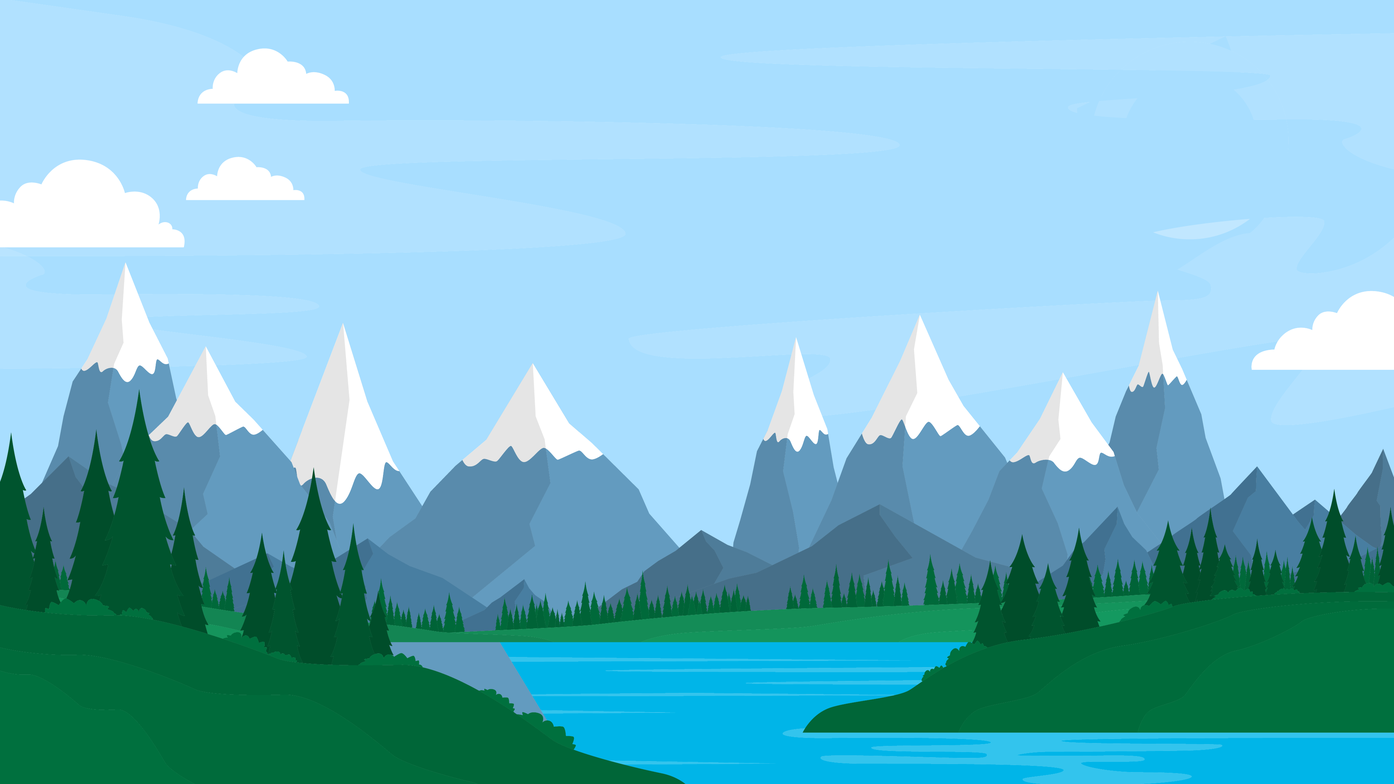
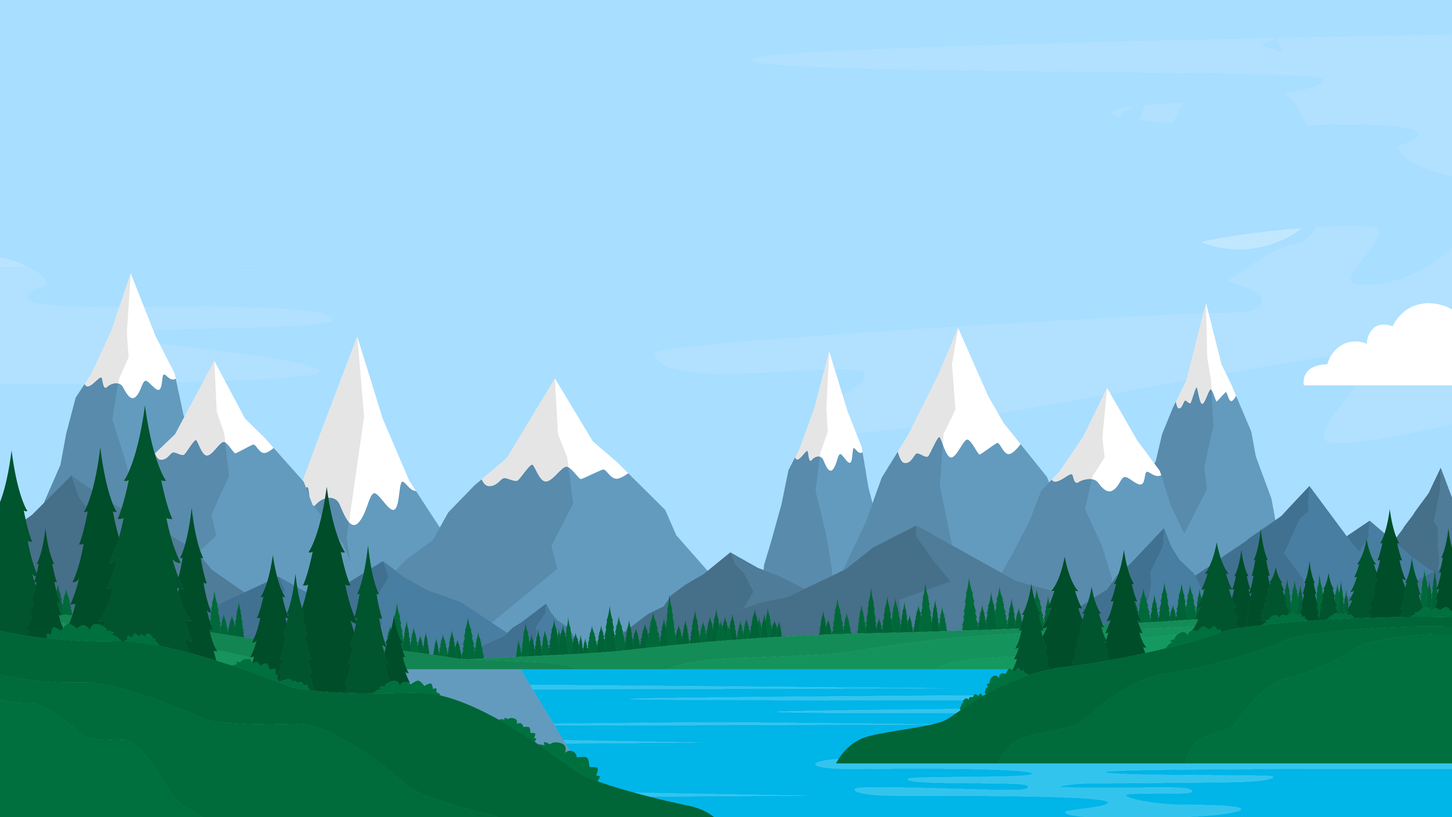
more work on splashscreen

Changed region(s): [[0.0, 0.1861, 0.2188, 0.3412], [0.125, 0.062, 0.25, 0.1551]]

diff --git a/src/assets/images.ts b/src/assets/images.ts
@@ -1,7 +1,6 @@
 import { pickRandomItems } from "../utils/utils";
 
 // printf '"%s",' * | sed 's/,$/\n/'
-// eslint-disable-next-line
-const kommunevaapen = [ "0001.png", "0101.png", "0104.png", "0105.png", "0106.png", "0111.png", "0118.png", "0119.png", "0121.png", "0122.png", "0123.png", "0124.png", "0125.png", "0127.png", "0128.png", "0135.png", "0136.png", "0137.png", "0138.png", "0211.png", "0213.png", "0214.png", "0215.png", "0216.png", "0217.png", "0219.png", "0220.png", "0221.png", "0226.png", "0227.png", "0228.png", "0229.png", "0230.png", "0231.png", "0233.png", "0234.png", "0235.png", "0236.png", "0237.png", "0238.png", "0239.png", "0301.png", "0402.png", "0403.png", "0412.png", "0415.png", "0417.png", "0418.png", "0419.png", "0420.png", "0423.png", "0425.png", "0426.png", "0427.png", "0428.png", "0429.png", "0430.png", "0432.png", "0434.png", "0436.png", "0437.png", "0438.png", "0439.png", "0441.png", "0501.png", "0502.png", "0511.png", "0512.png", "0513.png", "0514.png", "0515.png", "0516.png", "0517.png", "0519.png", "0520.png", "0521.png", "0522.png", "0528.png", "0529.png", "0532.png", "0533.png", "0534.png", "0536.png", "0538.png", "0540.png", "0541.png", "0542.png", "0543.png", "0544.png", "0545.png", "0602.png", "0604.png", "0605.png", "0612.png", "0615.png", "0616.png", "0617.png", "0618.png", "0619.png", "0620.png", "0621.png", "0622.png", "0623.png", "0624.png", "0625.png", "0626.png", "0627.png", "0628.png", "0631.png", "0632.png", "0633.png", "0701.png", "0704.png", "0710.png", "0711.png", "0712.png", "0713.png", "0715.png", "0716.png", "0729.png", "0805.png", "0806.png", "0807.png", "0811.png", "0814.png", "0815.png", "0817.png", "0819.png", "0821.png", "0822.png", "0826.png", "0827.png", "0828.png", "0829.png", "0830.png", "0831.png", "0833.png", "0834.png", "0901.png", "0904.png", "0906.png", "0911.png", "0912.png", "0914.png", "0919.png", "0926.png", "0928.png", "0929.png", "0935.png", "0937.png", "0938.png", "0940.png", "0941.png", "1001.png", "1002.png", "1003.png", "1004.png", "1014.png", "1017.png", "1018.png", "1021.png", "1026.png", "1027.png", "1029.png", "1032.png", "1034.png", "1037.png", "1046.png", "1100.png", "1101.png", "1102.png", "1103.png", "1106.png", "1108.png", "1111.png", "1112.png", "1114.png", "1119.png", "1120.png", "1121.png", "1122.png", "1124.png", "1127.png", "1129.png", "1130.png", "1133.png", "1134.png", "1135.png", "1141.png", "1142.png", "1144.png", "1145.png", "1146.png", "1149.png", "1151.png", "1160.png", "1201.png", "1211.png", "1216.png", "1219.png", "1221.png", "1222.png", "1223.png", "1224.png", "1227.png", "1228.png", "1231.png", "1232.png", "1233.png", "1234.png", "1235.png", "1238.png", "1241.png", "1242.png", "1243.png", "1244.png", "1245.png", "1246.png", "1247.png", "1251.png", "1252.png", "1253.png", "1256.png", "1259.png", "1260.png", "1263.png", "1264.png", "1265.png", "1266.png", "1401.png", "1411.png", "1412.png", "1413.png", "1416.png", "1417.png", "1418.png", "1419.png", "1420.png", "1421.png", "1422.png", "1424.png", "1426.png", "1428.png", "1429.png", "1430.png", "1431.png", "1432.png", "1433.png", "1438.png", "1439.png", "1441.png", "1443.png", "1444.png", "1445.png", "1449.png", "1500.png", "1502.png", "1504.png", "1505.png", "1506.png", "1507.png", "1508.png", "1511.png", "1514.png", "1515.png", "1516.png", "1517.png", "1519.png", "1520.png", "1523.png", "1524.png", "1525.png", "1526.png", "1528.png", "1529.png", "1531.png", "1532.png", "1534.png", "1535.png", "1539.png", "1543.png", "1545.png", "1546.png", "1547.png", "1548.png", "1551.png", "1554.png", "1557.png", "1560.png", "1563.png", "1566.png", "1571.png", "1573.png", "1576.png", "1577.png", "1578.png", "1579.png", "1580.png", "1800.png", "1804.png", "1805.png", "1806.png", "1811.png", "1812.png", "1813.png", "1815.png", "1816.png", "1818.png", "1820.png", "1822.png", "1824.png", "1825.png", "1826.png", "1827.png", "1828.png", "1832.png", "1833.png", "1834.png", "1835.png", "1836.png", "1837.png", "1838.png", "1839.png", "1840.png", "1841.png", "1845.png", "1848.png", "1849.png", "1850.png", "1851.png", "1852.png", "1853.png", "1854.png", "1856.png", "1857.png", "1859.png", "1860.png", "1865.png", "1866.png", "1867.png", "1868.png", "1870.png", "1871.png", "1874.png", "1875.png", "1902.png", "1903.png", "1911.png", "1913.png", "1917.png", "1919.png", "1920.png", "1922.png", "1923.png", "1924.png", "1925.png", "1926.png", "1927.png", "1928.png", "1929.png", "1931.png", "1933.png", "1936.png", "1938.png", "1939.png", "1940.png", "1941.png", "1942.png", "1943.png", "2002.png", "2003.png", "2004.png", "2011.png", "2012.png", "2014.png", "2015.png", "2017.png", "2018.png", "2019.png", "2020.png", "2021.png", "2022.png", "2023.png", "2024.png", "2025.png", "2027.png", "2028.png", "2030.png", "2100.png", "3000.png", "3001.png", "3002.png", "3003.png", "3004.png", "3005.png", "3006.png", "3007.png", "3012.png", "3013.png", "3014.png", "3015.png", "3016.png", "3017.png", "3018.png", "3019.png", "3020.png", "3021.png", "3022.png", "3023.png", "3024.png", "3025.png", "3026.png", "3027.png", "3028.png", "3029.png", "3030.png", "3031.png", "3032.png", "3033.png", "3034.png", "3035.png", "3036.png", "3037.png", "3038.png", "3039.png", "3040.png", "3041.png", "3042.png", "3043.png", "3044.png", "3045.png", "3046.png", "3047.png", "3048.png", "3049.png", "3050.png", "3051.png", "3052.png", "3053.png", "3054.png", "3099.png", "3100.png", "3101.png", "3103.png", "3105.png", "3107.png", "3112.png", "3114.png", "3116.png", "3118.png", "3120.png", "3122.png", "3124.png", "3200.png", "3201.png", "3203.png", "3205.png", "3207.png", "3209.png", "3212.png", "3214.png", "3216.png", "3218.png", "3220.png", "3222.png", "3224.png", "3226.png", "3228.png", "3230.png", "3232.png", "3234.png", "3236.png", "3238.png", "3240.png", "3242.png", "3300.png", "3301.png", "3303.png", "3305.png", "3310.png", "3312.png", "3314.png", "3316.png", "3318.png", "3320.png", "3322.png", "3324.png", "3326.png", "3328.png", "3330.png", "3332.png", "3334.png", "3336.png", "3338.png", "3400.png", "3401.png", "3403.png", "3405.png", "3407.png", "3411.png", "3412.png", "3413.png", "3414.png", "3415.png", "3416.png", "3417.png", "3418.png", "3419.png", "3420.png", "3421.png", "3422.png", "3423.png", "3424.png", "3425.png", "3426.png", "3427.png", "3428.png", "3429.png", "3430.png", "3431.png", "3432.png", "3433.png", "3434.png", "3435.png", "3436.png", "3437.png", "3438.png", "3439.png", "3440.png", "3441.png", "3442.png", "3443.png", "3446.png", "3447.png", "3448.png", "3449.png", "3450.png", "3451.png", "3452.png", "3453.png", "3454.png", "3800.png", "3801.png", "3802.png", "3803.png", "3804.png", "3805.png", "3806.png", "3807.png", "3808.png", "3811.png", "3812.png", "3813.png", "3814.png", "3815.png", "3816.png", "3817.png", "3818.png", "3819.png", "3820.png", "3821.png", "3822.png", "3823.png", "3824.png", "3825.png", "3900.png", "3901.png", "3903.png", "3905.png", "3907.png", "3909.png", "3911.png", "4000.png", "4001.png", "4003.png", "4005.png", "4010.png", "4012.png", "4014.png", "4016.png", "4018.png", "4020.png", "4022.png", "4024.png", "4026.png", "4028.png", "4030.png", "4032.png", "4034.png", "4036.png", "4200.png", "4201.png", "4202.png", "4203.png", "4204.png", "4205.png", "4206.png", "4207.png", "4211.png", "4212.png", "4213.png", "4214.png", "4215.png", "4216.png", "4217.png", "4218.png", "4219.png", "4220.png", "4221.png", "4222.png", "4223.png", "4224.png", "4225.png", "4226.png", "4227.png", "4228.png", "4600.png", "4601.png", "4602.png", "4611.png", "4612.png", "4613.png", "4614.png", "4615.png", "4616.png", "4617.png", "4618.png", "4619.png", "4620.png", "4621.png", "4622.png", "4623.png", "4624.png", "4625.png", "4626.png", "4627.png", "4628.png", "4629.png", "4630.png", "4631.png", "4632.png", "4633.png", "4634.png", "4635.png", "4636.png", "4637.png", "4638.png", "4639.png", "4640.png", "4641.png", "4642.png", "4643.png", "4644.png", "4645.png", "4646.png", "4647.png", "4648.png", "4649.png", "4650.png", "4651.png", "4699.png", "5000.png", "5001.png", "5004.png", "5005.png", "5006.png", "5007.png", "5011.png", "5012.png", "5013.png", "5014.png", "5015.png", "5016.png", "5017.png", "5018.png", "5019.png", "5020.png", "5021.png", "5022.png", "5023.png", "5024.png", "5025.png", "5026.png", "5027.png", "5028.png", "5029.png", "5030.png", "5031.png", "5032.png", "5033.png", "5034.png", "5035.png", "5036.png", "5037.png", "5038.png", "5039.png", "5040.png", "5041.png", "5042.png", "5043.png", "5044.png", "5045.png", "5046.png", "5047.png", "5048.png", "5049.png", "5050.png", "5051.png", "5052.png", "5053.png", "5054.png", "5055.png", "5056.png", "5057.png", "5058.png", "5059.png", "5060.png", "5061.png", "5400.png", "5401.png", "5402.png", "5403.png", "5404.png", "5405.png", "5406.png", "5411.png", "5412.png", "5413.png", "5414.png", "5415.png", "5416.png", "5417.png", "5418.png", "5419.png", "5420.png", "5421.png", "5422.png", "5423.png", "5424.png", "5425.png", "5426.png", "5427.png", "5428.png", "5429.png", "5430.png", "5432.png", "5433.png", "5434.png", "5435.png", "5436.png", "5437.png", "5438.png", "5439.png", "5440.png", "5441.png", "5442.png", "5443.png", "5444.png", "5500.png", "5501.png", "5503.png", "5510.png", "5512.png", "5514.png", "5516.png", "5518.png", "5520.png", "5522.png", "5524.png", "5526.png", "5528.png", "5530.png", "5532.png", "5534.png", "5536.png", "5538.png", "5540.png", "5542.png", "5544.png", "5546.png", "5600.png", "5601.png", "5603.png", "5605.png", "5607.png", "5610.png", "5612.png", "5614.png", "5616.png", "5618.png", "5620.png", "5622.png", "5624.png", "5626.png", "5628.png", "5630.png", "5632.png", "5634.png", "5636.png", "9900.png", ];
+const kommunevaapen = ["0001.png", "0101.png", "0104.png", "0105.png", "0106.png", "0111.png", "0118.png", "0119.png", "0121.png", "0122.png", "0123.png", "0124.png", "0125.png", "0127.png", "0128.png", "0135.png", "0136.png", "0137.png", "0138.png", "0211.png", "0213.png", "0214.png", "0215.png", "0216.png", "0217.png", "0219.png", "0220.png", "0221.png", "0226.png", "0227.png", "0228.png", "0229.png", "0230.png", "0231.png", "0233.png", "0234.png", "0235.png", "0236.png", "0237.png", "0238.png", "0239.png", "0301.png", "0402.png", "0403.png", "0412.png", "0415.png", "0417.png", "0418.png", "0419.png", "0420.png", "0423.png", "0425.png", "0426.png", "0427.png", "0428.png", "0429.png", "0430.png", "0432.png", "0434.png", "0436.png", "0437.png", "0438.png", "0439.png", "0441.png", "0501.png", "0502.png", "0511.png", "0512.png", "0513.png", "0514.png", "0515.png", "0516.png", "0517.png", "0519.png", "0520.png", "0521.png", "0522.png", "0528.png", "0529.png", "0532.png", "0533.png", "0534.png", "0536.png", "0538.png", "0540.png", "0541.png", "0542.png", "0543.png", "0544.png", "0545.png", "0602.png", "0604.png", "0605.png", "0612.png", "0615.png", "0616.png", "0617.png", "0618.png", "0619.png", "0620.png", "0621.png", "0622.png", "0623.png", "0624.png", "0625.png", "0626.png", "0627.png", "0628.png", "0631.png", "0632.png", "0633.png", "0701.png", "0704.png", "0710.png", "0711.png", "0712.png", "0713.png", "0715.png", "0716.png", "0729.png", "0805.png", "0806.png", "0807.png", "0811.png", "0814.png", "0815.png", "0817.png", "0819.png", "0821.png", "0822.png", "0826.png", "0827.png", "0828.png", "0829.png", "0830.png", "0831.png", "0833.png", "0834.png", "0901.png", "0904.png", "0906.png", "0911.png", "0912.png", "0914.png", "0919.png", "0926.png", "0928.png", "0929.png", "0935.png", "0937.png", "0938.png", "0940.png", "0941.png", "1001.png", "1002.png", "1003.png", "1004.png", "1014.png", "1017.png", "1018.png", "1021.png", "1026.png", "1027.png", "1029.png", "1032.png", "1034.png", "1037.png", "1046.png", "1100.png", "1101.png", "1102.png", "1103.png", "1106.png", "1108.png", "1111.png", "1112.png", "1114.png", "1119.png", "1120.png", "1121.png", "1122.png", "1124.png", "1127.png", "1129.png", "1130.png", "1133.png", "1134.png", "1135.png", "1141.png", "1142.png", "1144.png", "1145.png", "1146.png", "1149.png", "1151.png", "1160.png", "1201.png", "1211.png", "1216.png", "1219.png", "1221.png", "1222.png", "1223.png", "1224.png", "1227.png", "1228.png", "1231.png", "1232.png", "1233.png", "1234.png", "1235.png", "1238.png", "1241.png", "1242.png", "1243.png", "1244.png", "1245.png", "1246.png", "1247.png", "1251.png", "1252.png", "1253.png", "1256.png", "1259.png", "1260.png", "1263.png", "1264.png", "1265.png", "1266.png", "1401.png", "1411.png", "1412.png", "1413.png", "1416.png", "1417.png", "1418.png", "1419.png", "1420.png", "1421.png", "1422.png", "1424.png", "1426.png", "1428.png", "1429.png", "1430.png", "1431.png", "1432.png", "1433.png", "1438.png", "1439.png", "1441.png", "1443.png", "1444.png", "1445.png", "1449.png", "1500.png", "1502.png", "1504.png", "1505.png", "1506.png", "1507.png", "1508.png", "1511.png", "1514.png", "1515.png", "1516.png", "1517.png", "1519.png", "1520.png", "1523.png", "1524.png", "1525.png", "1526.png", "1528.png", "1529.png", "1531.png", "1532.png", "1534.png", "1535.png", "1539.png", "1543.png", "1545.png", "1546.png", "1547.png", "1548.png", "1551.png", "1554.png", "1557.png", "1560.png", "1563.png", "1566.png", "1571.png", "1573.png", "1576.png", "1577.png", "1578.png", "1579.png", "1580.png", "1800.png", "1804.png", "1805.png", "1806.png", "1811.png", "1812.png", "1813.png", "1815.png", "1816.png", "1818.png", "1820.png", "1822.png", "1824.png", "1825.png", "1826.png", "1827.png", "1828.png", "1832.png", "1833.png", "1834.png", "1835.png", "1836.png", "1837.png", "1838.png", "1839.png", "1840.png", "1841.png", "1845.png", "1848.png", "1849.png", "1850.png", "1851.png", "1852.png", "1853.png", "1854.png", "1856.png", "1857.png", "1859.png", "1860.png", "1865.png", "1866.png", "1867.png", "1868.png", "1870.png", "1871.png", "1874.png", "1875.png", "1902.png", "1903.png", "1911.png", "1913.png", "1917.png", "1919.png", "1920.png", "1922.png", "1923.png", "1924.png", "1925.png", "1926.png", "1927.png", "1928.png", "1929.png", "1931.png", "1933.png", "1936.png", "1938.png", "1939.png", "1940.png", "1941.png", "1942.png", "1943.png", "2002.png", "2003.png", "2004.png", "2011.png", "2012.png", "2014.png", "2015.png", "2017.png", "2018.png", "2019.png", "2020.png", "2021.png", "2022.png", "2023.png", "2024.png", "2025.png", "2027.png", "2028.png", "2030.png", "2100.png", "3000.png", "3001.png", "3002.png", "3003.png", "3004.png", "3005.png", "3006.png", "3007.png", "3012.png", "3013.png", "3014.png", "3015.png", "3016.png", "3017.png", "3018.png", "3019.png", "3020.png", "3021.png", "3022.png", "3023.png", "3024.png", "3025.png", "3026.png", "3027.png", "3028.png", "3029.png", "3030.png", "3031.png", "3032.png", "3033.png", "3034.png", "3035.png", "3036.png", "3037.png", "3038.png", "3039.png", "3040.png", "3041.png", "3042.png", "3043.png", "3044.png", "3045.png", "3046.png", "3047.png", "3048.png", "3049.png", "3050.png", "3051.png", "3052.png", "3053.png", "3054.png", "3099.png", "3100.png", "3101.png", "3103.png", "3105.png", "3107.png", "3112.png", "3114.png", "3116.png", "3118.png", "3120.png", "3122.png", "3124.png", "3200.png", "3201.png", "3203.png", "3205.png", "3207.png", "3209.png", "3212.png", "3214.png", "3216.png", "3218.png", "3220.png", "3222.png", "3224.png", "3226.png", "3228.png", "3230.png", "3232.png", "3234.png", "3236.png", "3238.png", "3240.png", "3242.png", "3300.png", "3301.png", "3303.png", "3305.png", "3310.png", "3312.png", "3314.png", "3316.png", "3318.png", "3320.png", "3322.png", "3324.png", "3326.png", "3328.png", "3330.png", "3332.png", "3334.png", "3336.png", "3338.png", "3400.png", "3401.png", "3403.png", "3405.png", "3407.png", "3411.png", "3412.png", "3413.png", "3414.png", "3415.png", "3416.png", "3417.png", "3418.png", "3419.png", "3420.png", "3421.png", "3422.png", "3423.png", "3424.png", "3425.png", "3426.png", "3427.png", "3428.png", "3429.png", "3430.png", "3431.png", "3432.png", "3433.png", "3434.png", "3435.png", "3436.png", "3437.png", "3438.png", "3439.png", "3440.png", "3441.png", "3442.png", "3443.png", "3446.png", "3447.png", "3448.png", "3449.png", "3450.png", "3451.png", "3452.png", "3453.png", "3454.png", "3800.png", "3801.png", "3802.png", "3803.png", "3804.png", "3805.png", "3806.png", "3807.png", "3808.png", "3811.png", "3812.png", "3813.png", "3814.png", "3815.png", "3816.png", "3817.png", "3818.png", "3819.png", "3820.png", "3821.png", "3822.png", "3823.png", "3824.png", "3825.png", "3900.png", "3901.png", "3903.png", "3905.png", "3907.png", "3909.png", "3911.png", "4000.png", "4001.png", "4003.png", "4005.png", "4010.png", "4012.png", "4014.png", "4016.png", "4018.png", "4020.png", "4022.png", "4024.png", "4026.png", "4028.png", "4030.png", "4032.png", "4034.png", "4036.png", "4200.png", "4201.png", "4202.png", "4203.png", "4204.png", "4205.png", "4206.png", "4207.png", "4211.png", "4212.png", "4213.png", "4214.png", "4215.png", "4216.png", "4217.png", "4218.png", "4219.png", "4220.png", "4221.png", "4222.png", "4223.png", "4224.png", "4225.png", "4226.png", "4227.png", "4228.png", "4600.png", "4601.png", "4602.png", "4611.png", "4612.png", "4613.png", "4614.png", "4615.png", "4616.png", "4617.png", "4618.png", "4619.png", "4620.png", "4621.png", "4622.png", "4623.png", "4624.png", "4625.png", "4626.png", "4627.png", "4628.png", "4629.png", "4630.png", "4631.png", "4632.png", "4633.png", "4634.png", "4635.png", "4636.png", "4637.png", "4638.png", "4639.png", "4640.png", "4641.png", "4642.png", "4643.png", "4644.png", "4645.png", "4646.png", "4647.png", "4648.png", "4649.png", "4650.png", "4651.png", "4699.png", "5000.png", "5001.png", "5004.png", "5005.png", "5006.png", "5007.png", "5011.png", "5012.png", "5013.png", "5014.png", "5015.png", "5016.png", "5017.png", "5018.png", "5019.png", "5020.png", "5021.png", "5022.png", "5023.png", "5024.png", "5025.png", "5026.png", "5027.png", "5028.png", "5029.png", "5030.png", "5031.png", "5032.png", "5033.png", "5034.png", "5035.png", "5036.png", "5037.png", "5038.png", "5039.png", "5040.png", "5041.png", "5042.png", "5043.png", "5044.png", "5045.png", "5046.png", "5047.png", "5048.png", "5049.png", "5050.png", "5051.png", "5052.png", "5053.png", "5054.png", "5055.png", "5056.png", "5057.png", "5058.png", "5059.png", "5060.png", "5061.png", "5400.png", "5401.png", "5402.png", "5403.png", "5404.png", "5405.png", "5406.png", "5411.png", "5412.png", "5413.png", "5414.png", "5415.png", "5416.png", "5417.png", "5418.png", "5419.png", "5420.png", "5421.png", "5422.png", "5423.png", "5424.png", "5425.png", "5426.png", "5427.png", "5428.png", "5429.png", "5430.png", "5432.png", "5433.png", "5434.png", "5435.png", "5436.png", "5437.png", "5438.png", "5439.png", "5440.png", "5441.png", "5442.png", "5443.png", "5444.png", "5500.png", "5501.png", "5503.png", "5510.png", "5512.png", "5514.png", "5516.png", "5518.png", "5520.png", "5522.png", "5524.png", "5526.png", "5528.png", "5530.png", "5532.png", "5534.png", "5536.png", "5538.png", "5540.png", "5542.png", "5544.png", "5546.png", "5600.png", "5601.png", "5603.png", "5605.png", "5607.png", "5610.png", "5612.png", "5614.png", "5616.png", "5618.png", "5620.png", "5622.png", "5624.png", "5626.png", "5628.png", "5630.png", "5632.png", "5634.png", "5636.png", "9900.png",];
 
-export const images = (n: number) => pickRandomItems(kommunevaapen,n).map(img => `https://static.fiks.ks.no/img/kommunevaapen/${img}`)
+export const images = (n: number) => pickRandomItems(kommunevaapen, n).map(img => `https://static.fiks.ks.no/img/kommunevaapen/${img}`)

diff --git a/src/components/sun.tsx b/src/components/sun.tsx
@@ -1,0 +1,132 @@
+export const Sun = () => {
+  return (
+    <div className="relative">
+      <div className="absolute inset-0 m-auto w-20 h-20 rounded-full opacity-90 bg-yellow-400 shadow-yellow-400 shadow-lg">
+        <div className="absolute inset-0 m-auto w-70 animate-ray ">
+          <div
+            className="ml-5 rounded-ray absolute opacity-[0.4]"
+            style={{
+              top: "-175px",
+              left: "15px",
+              width: "30px",
+              background:
+                "linear-gradient(to top, rgba(255,255,255,0) 0%, rgba(255,255,255,0.8) 50%, rgba(255,255,255,0) 100%)",
+              height: "170px",
+              transform: "rotate(180deg)",
+            }}
+          />
+
+          <div
+            className="ml-5 rounded-ray absolute opacity-[0.4] "
+            style={{
+              background:
+                "linear-gradient(to top, rgba(255,255,255,0) 0%, rgba(255,255,255,0.8) 50%, rgba(255,255,255,0) 100%)",
+              height: "100px",
+              width: "8px",
+              transform: "rotate(220deg)",
+              top: "-90px",
+              left: "75px",
+            }}
+          ></div>
+          <div
+            className="ml-5 rounded-ray absolute opacity-[0.4]"
+            style={{
+              background:
+                "linear-gradient(to top, rgba(255,255,255,0) 0%, rgba(255,255,255,0.8) 50%, rgba(255,255,255,0) 100%)",
+              height: "170px",
+              width: "30px",
+              transform: "rotate(250deg)",
+              top: "-80px",
+              left: "100px",
+            }}
+          ></div>
+          <div
+            className="ml-5 rounded-ray absolute opacity-[0.4]"
+            style={{
+              background:
+                "linear-gradient(to top, rgba(255,255,255,0) 0%, rgba(255,255,255,0.8) 50%, rgba(255,255,255,0) 100%)",
+              height: "120px",
+              width: "14px",
+              transform: "rotate(305deg)",
+              top: "30px",
+              left: "100px",
+            }}
+          />
+          <div
+            className="ml-5 rounded-ray absolute opacity-[0.4]"
+            style={{
+              background:
+                "linear-gradient(to top, rgba(255,255,255,0) 0%, rgba(255,255,255,0.8) 50%, rgba(255,255,255,0) 100%)",
+              height: "140px",
+              width: "30px",
+              transform: "rotate(-15deg)",
+              top: "60px",
+              left: "40px",
+            }}
+          />
+          <div
+            className="ml-5 rounded-ray absolute opacity-[0.4]"
+            style={{
+              background:
+                "linear-gradient(to top, rgba(255,255,255,0) 0%, rgba(255,255,255,0.8) 50%, rgba(255,255,255,0) 100%)",
+              height: "90px",
+              width: "50px",
+              transform: "rotate(19deg)",
+              top: "80px",
+              left: "-50px",
+            }}
+          />
+          <div
+            className="ml-5 rounded-ray absolute opacity-[0.4]"
+            style={{
+              background:
+                "linear-gradient(to top, rgba(255,255,255,0) 0%, rgba(255,255,255,0.8) 50%, rgba(255,255,255,0) 100%)",
+              height: "100px",
+              width: "10px",
+              transform: "rotate(70deg)",
+              top: "15px",
+              left: "-90px",
+            }}
+          />
+          <div
+            className="ml-5 rounded-ray absolute opacity-[0.4]"
+            style={{
+              background:
+                "linear-gradient(to top, rgba(255,255,255,0) 0%, rgba(255,255,255,0.8) 50%, rgba(255,255,255,0) 100%)",
+
+              height: "120px",
+              width: "30px",
+              transform: "rotate(100deg)",
+              top: "-45px",
+              left: "-90px",
+            }}
+          />
+          <div
+            className="ml-5 rounded-ray absolute opacity-[0.4]"
+            style={{
+              background:
+                "linear-gradient(to top, rgba(255,255,255,0) 0%, rgba(255,255,255,0.8) 50%, rgba(255,255,255,0) 100%)",
+              height: "80px",
+              width: "10px",
+              transform: "rotate(120deg)",
+              top: "-65px",
+              left: "-60px",
+            }}
+          />
+          <div
+            className="ml-5 rounded-ray absolute opacity-[0.4]"
+            style={{
+              background:
+                "linear-gradient(to top, rgba(255,255,255,0) 0%, rgba(255,255,255,0.8) 50%, rgba(255,255,255,0) 100%)",
+              height: "190px",
+              width: "23px",
+              transform: "rotate(150deg)",
+              top: "-185px",
+              left: "-60px",
+            }}
+          />
+        </div>
+      </div>
+    </div>
+  );
+};

diff --git a/src/components/SplashScreen.tsx b/src/components/SplashScreen.tsx
@@ -1,12 +1,25 @@
+import { Clouds } from "./Clouds";
+import { Sun } from "./sun";
+
 interface SplashScreenProps {
   onStartGame: () => void;
 }
 
 const SplashScreen = ({ onStartGame }: SplashScreenProps) => {
   return (
-    <div className="flex flex-col items-center pt-60  h-full">
+    <div className="flex flex-col items-center  h-full">
+      {/* <div>
+        <Clouds />
+      </div> */}
+      <div className="ml-auto pt-72 pr-96">
+        <Sun />
+      </div>
       <h1 className="text-4xl font-bold mb-8 sr-only">Kommune Flip</h1>
-      <img src="/logo.svg" alt="Logo" className="w-1/4 mx-auto animate-wiggle" />
+      <img
+        src="/logo.svg"
+        alt="Logo"
+        className="w-1/4 mx-auto animate-wiggle pt-20"
+      />
       <button
         onClick={onStartGame}
         className="bg-blue-900 text-white text-3xl text-bold px-10 py-4 mt-8 rounded-xl hover:scale-110 transition-all shadow-white-500/70 shadow-sm hover:shadow-lg hover:shadow-white-500/70 focus:ring-2 ring-offset-4 ring-offset-yellow-400"

diff --git a/tailwind.config.js b/tailwind.config.js
@@ -10,6 +10,9 @@ export default {
       aspectRatio: {
         golden: "1.586 / 1",
       },
+      borderRadius: {
+        ray: "80% 80% 0 0",
+      },
       boxShadow: {
         card: "0 1px 5px #00000099",
         "card-hover": "0 5px 20px 5px #00000044",
@@ -23,9 +26,14 @@ export default {
           "0%, 100%": { transform: "rotate(-3deg)" },
           "50%": { transform: "rotate(3deg)" },
         },
+        ray: {
+          "0%": { transform: "rotate(0deg)" },
+          "100%": { transform: "rotate(360deg)" },
+        },
       },
       animation: {
         wiggle: "wiggle 1s ease-in-out infinite",
+        ray: "ray 60s linear infinite",
       },
     },
   },

diff --git a/src/components/Clouds.tsx b/src/components/Clouds.tsx
@@ -1,0 +1,16 @@
+const Cloud = () => {
+  return <img src="/cloud.png" />;
+};
+
+export const Clouds = () => {
+  return (
+    <div>
+      <div style={{ animationDelay: "-1s" }}>
+        <Cloud />
+      </div>
+      {/* <div style={{ animationDelay: "-2s" }}>
+        <Cloud />
+      </div> */}
+    </div>
+  );
+};

diff --git a/src/components/Card.tsx b/src/components/Card.tsx
@@ -56,7 +56,7 @@ const Card = ({
       currentGlowRef.style.backgroundImage = "";
       currentCard.removeEventListener("mousemove", rotateToMouse);
     });
-  }, [bounds, cardRef, glowRef]);
+  }, [bounds, cardRef, glowRef, isFlipped]);
 
   const handleCardClick = () => {
     handleClick(index);
